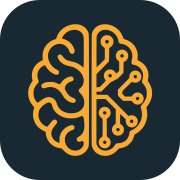
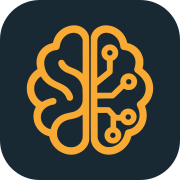
Draw the mark with fewer strokes
The first brain had more gyri and more circuit nodes than 16 pixels can
hold: at favicon size it read as an orange smudge. This one is the same
idea drawn with fewer strokes, so it still says brain at a tab's size.

Both marks live in apps/web/icon-sources/ and the generator picks one, so
going back is a single line in scripts/generate-app-icons.mjs plus
`pnpm icons:generate`. The generator now also writes the mark the product
draws itself, which used to be a second copy pasted into logo.tsx and free
to drift away from the icons; the lockup spaces its rule and wordmark from
the mark's measured width rather than from coordinates that only happened
to suit the old one.

Changed region(s): [[0.1389, 0.1111, 0.8611, 0.8889]]

diff --git a/packages/ui/src/components/logo.tsx b/packages/ui/src/components/logo.tsx
@@ -1,6 +1,7 @@
 import * as React from 'react';
 
 import { cn } from '../lib/utils';
+import { MARK_PATHS, MARK_TRANSFORM, MARK_WIDTH } from './logo-mark.generated';
 
 /**
  * The eXocortex brand marks.
@@ -25,8 +26,14 @@ import { cn } from '../lib/utils';
  * a display face, the product's UI type is Inter, and nothing but the name is
  * ever set in it.
  *
- * Geometry: the mark is 931.7 by 1000 units, the wordmark's cap height is
- * 685, and the rule brackets that cap height rather than the full height of
+ * The mark is not written here. It comes from `logo-mark.generated.ts`, which
+ * `scripts/generate-app-icons.mjs` writes from the same vector source as the
+ * favicon and the launcher tiles, normalised to a 1000-unit height with its ink
+ * starting at 0,0. Keeping one source is what stops the tab icon and the
+ * wordmark from slowly becoming two different drawings of the same brain.
+ *
+ * Geometry: the mark is `MARK_WIDTH` by 1000 units, the wordmark's cap height
+ * is 685, and the rule brackets that cap height rather than the full height of
  * the mark, so the three parts read as one line instead of as an icon with a
  * tall stick beside it. Both components are sized by height.
  *
@@ -38,12 +45,20 @@ const BRAND_AMBER = '#F9AA33';
 const BRAND_LIGHT = '#E7E9EB';
 
 /** The mark centred in a square, for an avatar, a tab or a launcher tile. */
-const MARK_VIEW_BOX = '-34.1 0 1000 1000';
-/** The full lockup, about 8.32:1. */
-const LOCKUP_VIEW_BOX = '0 0 8320.4 1000';
+const MARK_VIEW_BOX = `${(MARK_WIDTH - 1000) / 2} 0 1000 1000`;
 
-const MARK_PATH =
-  'M334.5 1.8c-35 5.6-67.2 21.9-89.7 45.3-14.3 14.9-26.7 36.3-31.4 53.9-2.4 9.4-3.8 10.7-13.1 13.6-28.8 8.8-54.3 27.5-70.6 51.7-8.2 12.1-16.4 31.6-19.3 45.9-2.4 11.2-2.9 32.7-1.2 48.4l1 9.6-11.5 5.7c-36.3 17.6-61.3 49.3-69.1 87.4-2.6 13-1.8 39 1.8 52.8l2.4 9.5-5.9 8.3c-19 26.9-27.6 52.3-27.7 82.6-0.2 37.3 12.4 69.8 38.4 99 3.9 4.4 7.1 9 7.2 10.2 0 1.1-1.4 6.3-3.1 11.5-17.4 54.3 1.9 115 47.3 149.2 8.6 6.4 33.9 20.2 37.3 20.2 3.3 0 4.9 4.4 5.6 15.4 2.3 34.8 22.7 69.4 53.3 89.9 16.6 11.1 38 18.8 56.1 20.2 9.5 0.8 9.9 1 13.9 5.6 23.3 26.6 40.1 38.6 65 46.5 50.4 15.8 105.2-6.3 127-51 9.7-19.9 8.9 22.3 8.9-438.1 0-446.3 0.4-418.4-6.3-435.1-11.2-27.6-35-47.9-65.6-56-10.8-2.9-39.1-4-50.7-2.2z m29.6 42.3c26.9 5.5 46.6 24.4 52 49.8 1.4 7 1.8 25.3 1.6 115.3 0 78.2-0.5 108.2-1.4 111.7l-1.4 4.5-10.2-8.2c-25.3-20.4-51.7-32.6-82.3-37.8-15.6-2.7-22.7-5-33.2-10.4-11.5-5.9-23.7-17-30.6-28-8.1-12.6-17.1-16.4-27.4-11.2-13.1 6.5-12.5 22.9 1.3 41 20 26 44.8 39.8 83.8 46.5 39.6 6.8 76.2 34.4 92.6 70.1 16 34.7 8.9 72.8-17.6 93.6-10.7 8.4-13.9 17-9.8 26.4 1 2.1 5.1 7.1 9.5 11.3 20.1 19.3 30.6 42.8 30.7 69.2 0.1 23.1-6.3 38.5-22.7 54.6-11.4 11.4-22.9 18-39.4 22.5-18.4 5-44 6.1-61.9 2.4-18.9-3.8-39.3-13.2-53-24.4-13.3-10.9-25.1-29.8-30.1-48.6-4.3-15.9-12.1-27.1-24.9-35.6-29.2-19.3-55.9-14.5-98.5 17.6-10.1 7.6-19 13.8-19.9 13.8-3.7 0-17.5-18.5-23.2-31.2-5.9-13.4-7.7-22.5-7.7-40.1 0.1-27.9 7.7-47.7 26.3-67.6 4.5-5 9.3-10.3 10.3-12 3.1-4.4 2.5-13-1.4-22.9-12-30.4-6.7-61.3 14.9-85.2 7-7.7 19.5-16.8 28.5-20.5 8-3.1 5.8-4.8 17.5 13.2 23.1 35.7 71.6 65.6 87.2 54 13.1-9.7 11.2-27.2-3.7-34.2-3.6-1.7-6.8-3.1-7.1-3.1-0.4 0-3.4-1.7-6.9-3.8-23.9-14.3-42.2-37.6-51.5-65.4-4-11.9-4.5-15.1-5.1-28.3-0.5-12.6-0.1-16.5 2.1-25 8.3-33 33.5-58.8 66-67.8 12.8-3.4 29.5-2.9 42.2 1.6 22.1 7.8 42.6 29.1 50.1 52 4.4 13.3 10.6 19 20.8 19 8.8 0 15.9-5.6 18.3-14.4 2.6-9.5-5-32.6-16.2-49.6-16.2-24.1-40.9-41.3-70.5-48.7-4.3-1.1-8.1-2.1-8.3-2.3-0.7-0.5 2.5-7.7 7.5-16.4 6.4-11.3 22.3-27 34.6-34 22.3-13.1 46.7-17.8 68.1-13.4z m-196.2 547.4c2.1 1.3 5.1 4 6.7 6 3.1 3.6 3.8 5.7 7.3 20.4 3.8 16.8 15.1 34.5 31.5 50 19.4 18.2 43.4 30.3 72.7 36.7 16.9 3.7 55.4 3.9 71.7 0.5 11.4-2.4 31.5-8.9 38.9-12.8 5.9-3.1 9.6-2.9 13.9 0.8 4.4 3.7 6.8 11.5 9 29 4.2 32.3 3.3 60.4-2.2 77.8-6.2 19.4-19.5 35.9-36.3 44.6-13.9 7.3-17.7 12.6-16.5 23.3 1.2 9.6 8.6 16 18.8 16.1 3 0 8.3-1.4 13.2-3.6 9.4-4.2 12.6-3.9 17 1.3 8.4 10 3.6 32.3-10.2 47-13.1 14-29.4 21-48.5 21-22.3 0-38.9-6.9-54.7-22.8-17-17.1-24.3-34.5-24.4-58.4 0-16.6 2.9-26.7 11.3-39.7 10.2-15.7 24.3-26.3 42.2-32.2 6.3-2 10.8-4.4 13.4-6.9 6.9-6.7 7.7-17.6 1.8-24.7-7-8.2-15.3-9-32.7-3-36.6 12.6-64 42-74.2 79.9-1.8 6.7-2.3 12.1-2.1 28.6 0.1 23.5 0.8 22.5-11.1 18.1-29.5-11.1-50.3-38.9-50.2-67.1 0.1-21.4 9.3-40.4 31.3-64.6 10.9-12 13.4-17.1 12.2-25-1.9-12.2-16-19.1-27.7-13.5-4.5 2.1-20.7 20.2-35.7 39.8-6.5 8.7-9.4 11.7-11.4 11.6-1.4 0-6.1-1.5-10.4-3.3-19.3-8.2-35.8-24.3-45.1-43.6-8.2-16.9-10-24.4-10-42.2 0-15.9 2.1-26.2 8.2-38.2 9.9-19.5 41-46.1 61.8-52.9 6.1-2 15.3-1.1 20.5 2z M307.8 395.3c-23.5 6.2-45.1 22.3-60.2 45.3-8.7 13.3-8.8 13.3-24.6 5.9-7.1-3.3-18.3-7.5-24.7-9.3-10.7-3-13.4-3.3-32.5-3.3-22.7 0.1-27.5 0.8-46.2 8-11.9 4.5-18.3 10-20.2 17-2.6 9.7 3.8 20.4 13.8 23 4.5 1.2 6.3 1 19.3-3.4 17.1-5.8 29.5-7.5 43.2-6 31.6 3.7 59.8 23.1 79.4 54.7 14 22.8 15.7 25.2 22.2 32.4 17.1 18.4 43.2 31.9 61.7 31.8 14 0 22.2-13.7 15.9-26.1-3-5.8-6.5-8.2-19.3-12.8-23.3-8.3-38.3-23.3-54.8-55-5.5-10.6-5.8-11.7-5.2-17.9 1.9-21 23.7-43 48.1-48.7 7.7-1.8 13.1-5.3 15.8-10.7 4.6-8.7 1.8-18.7-7.1-24.6-5-3.4-12.7-3.6-24.6-0.3z M554.1 2.5c-11.5 2.3-19 4.9-29.4 10.2-22.3 11.4-38 30.7-45.7 56.2-2.1 6.9-2.3 24.3-2.5 422.1-0.4 412.5-0.4 414.9 2 424.4 8.8 34.7 35.4 60.6 72.4 70.3 9.2 2.5 14.4 3.1 26.3 3.2 38.8 0.2 68.4-14.5 99.2-49.4 5.8-6.5 6.2-6.7 13.7-7.5 18.1-1.9 38.5-9.2 53.7-19 11.5-7.6 31.1-27.6 37.3-38.1 6.2-10.7 11.9-24.4 14.3-34.6 1-4.4 2.4-9 3-10.2 0.6-1.2 4.8-3.9 9.1-6.2 19.3-9.7 42.3-30.1 56-49.4 13.8-19.6 25.2-47.7 29.3-72.4 2.7-16.5 1.9-44.6-1.9-60.2-4.3-18-4.5-16.2 3.3-25.8 18.9-23.1 30.3-47.2 34.9-73.4 2.6-14.7 1.9-41.4-1.3-54.7-4.9-20.4-12-36-23.4-52.1-3.4-4.8-6.3-9.5-6.3-10.6 0-1 1.2-7.3 2.5-13.7 3.8-17.7 3.6-40.2-0.5-55.6-9.3-35.4-32.3-62.9-67.1-79.8l-12.4-6.1 0.7-7.3c2.9-27.1 2-41.8-3.5-60.9-3.4-11.9-11.7-28.9-18.9-39-6.5-9.2-21.6-23.7-31.4-30.2-10.3-7-27.3-14.9-38.8-18-5.2-1.4-10.5-3.4-11.5-4.4-1.1-1-3.1-5.6-4.5-10.2-17.6-58.3-75.5-100-137.9-99.4-6.9 0-16.2 0.8-20.7 1.8z m39.7 40.9c44.1 7 78.9 42.7 85 87.1 0.6 4.3 1.9 7 4.9 10.4 4.6 5.1 8.3 6.7 19 7.6 39 3.6 74.1 38.8 79.2 79.6 1.7 13.6 0.1 29.2-4.4 44.6-3.6 12.1-3.7 16.6-0.6 22.6 3.1 6.2 8.4 9.3 19.1 10.9 48.3 7.4 79.5 60.4 62.9 106.4-4.2 11.3-5.5 18.9-4.3 23.8 0.5 1.7 3.9 6.3 7.6 10.3 8.9 9.6 13.6 16.4 19.3 28.5 7.5 15.8 8.9 22.6 8.9 43.7 0 21.6-2.1 31.6-10.7 49.7-6.5 13.7-11.5 20.8-22.7 32.3-8.6 8.8-12.4 15.1-12.4 20.6 0 1.7 1.4 7.1 3.1 12.2 15.8 48.6 4.8 98.4-30.1 135-11.2 11.7-20.6 18.5-33.1 24.2-15.9 7.3-17.4 8.1-20.4 12-2.3 3-3.2 6.5-4.5 16.2-3.9 30-20.3 52.7-47.2 65-12.8 5.9-19.1 7.4-33.6 7.9-17.4 0.5-20.3 2.1-27.9 15.1-20.9 35.5-67.3 50.8-102 33.5-11.1-5.5-23.5-17-28.5-26.3-7.3-13.8-7.8-17.5-7.7-44.9 0-13.7 0.1-88.8 0.1-166.8l0.2-141.7 34.1 0 34 0 7.1 6.8c4 3.8 21.3 21.2 38.5 38.5l31.3 31.6 0 53.6c0 58.6 0.4 55.2-7 59-1.8 1-5.7 4.4-8.9 7.7-21.6 23.3-15.2 59.4 12.9 73.4 6.4 3.1 8.3 3.4 19 3.4 10.5 0 12.7-0.4 18.8-3.2 9.5-4.5 18.8-13.7 23-22.7 3.1-6.5 3.4-8.7 3.4-19.3 0-11.5-0.1-12.1-4.6-20.5-4.6-8.8-10.6-14.9-18.8-19.5-2.4-1.3-4.6-3.6-5-5-1.3-5-0.8-72 0.6-72.1 0.7 0 10.5 9 21.5 20.1l20.3 20-0.6 7.6c-1.3 16.8 3.4 30.2 14.2 40.4 20.6 19.5 52.1 16.4 68.1-6.8 8-11.4 10.3-27.5 6.1-40-8.7-25.1-33.5-37.4-58.4-29l-8.9 3.1-79.1-79.7-79-79.6-41-0.3-41-0.2-0.4-11.7-0.4-11.5 18.2 0 18.2 0.1 35.7-36.2c32-32.5 36.3-36.4 41-37.6 7.5-2 13.9-5.5 20.6-10.9 3.8-3.2 7.8-5.2 12.1-6.2 3.6-1 8.8-3.3 12.1-5.8 4.5-3.3 43.6-41.6 44.6-43.8 0.1-0.2 0.6-18.7 0.9-40.9l0.6-40.4 7.8-4c10.2-5.5 18.3-13.7 22.9-23.7 3.4-7.3 3.8-9 3.8-19.3 0-10.2-0.4-12-3.8-19.3-9-19-29.8-30.6-49.2-27.1-22.1 3.8-38.3 21.4-40 43.2-1.2 15.8 4.2 27.9 17.9 40.8l7.5 7-0.3 34.4-0.1 34.3-10.1 9.9c-5.6 5.5-10.7 10-11.4 10-0.6 0-2.7-2.9-4.8-6.3-4.3-7.6-14.4-17.4-21.8-20.8-27.9-13.6-60.7 3.7-66.5 34.8-2.4 12.7 1 25.4 9.5 36.9 2.7 3.6 4.9 7.4 4.9 8.4 0 1.1-10.5 12.5-23.2 25.3l-23 23.3-12.1 0.4-11.8 0.5 0-49 0-49.1 10.4-10.8c5.7-5.9 26.6-27.2 46.5-47.2 19.9-20.1 36.5-37.2 37.1-38.1 0.6-1 1.1-23.2 1.1-49.4 0-26.3 0.4-48.5 0.7-49.6 0.4-1.1 4.4-4.4 9-7.4 22.1-14.7 29.4-41.6 17.5-64.9-3.9-7.7-14.3-17.2-23.3-21.5-7.4-3.4-9-3.8-20-3.8-10.9 0-12.6 0.4-19.8 3.8-10.5 4.9-19 13.4-23.9 23.9-3.6 7.5-3.8 8.8-3.8 21.1 0 11.9 0.2 13.7 3.3 19.8 4.2 8.6 12.1 17.4 20.1 22.5 3.4 2.1 6.7 4.5 7.1 5.2 0.5 0.6 1 19.6 1 42.2 0 37.2-0.2 41.3-2.2 44-3.9 5.7-58.5 58.7-59.3 57.8-1.7-1.5-1.9-222.7-0.4-230.2 4-18.8 17-35.1 35.5-44.4 11.2-5.7 28.8-7.8 44.2-5.5z m7.8 78.9c3.4 3.4 4 4.9 4.1 9.7 0 4.8-0.6 6.2-4.1 9.6-9.4 9.4-24.3 2-22.9-11.4 0.8-7.4 5.8-11.9 13.4-11.9 4.6 0 6.1 0.6 9.5 4z m111.8 106.9c4.8 4.4 5.8 10.1 2.8 15.7-3.2 6.1-13.2 8.6-18.7 4.6-3.1-2.1-6.2-7.7-6.2-11.2 0-3.9 3.3-9.3 6.9-11.1 5.5-3.1 10.5-2.4 15.2 2z m-88.3 149.4c8.6 9.6-1.3 24.7-13.9 21.3-11.1-3.1-12-20.3-1.5-25 4.8-2 11.8-0.4 15.4 3.7z m156.9 339.3c7.4 3.1 10.3 9.7 7.5 16.6-2.1 5.2-6.2 7.8-12 7.9-13.4-0.1-17.4-19-5-24.4 4.8-2.1 4.9-2.1 9.5-0.1z m-100.6 63.7c8.4 5.1 7.5 18.3-1.5 22.1-6.1 2.5-11.4 1.3-15.4-3.3-2.7-3.2-3.1-4.6-2.6-8.9 1.2-10.5 10.7-15.3 19.5-9.9z M796.4 348.9c-12.5 2.5-27 13.8-32.3 25.1-3.2 6.8-5.5 19.3-4.5 24.5 0.4 2.1 0.1 5.1-0.7 6.5-0.7 1.5-20.1 21.6-43.1 44.7l-41.8 41.9-0.3 19.2c-0.2 10.6-0.1 21.2 0.3 23.4 0.6 3 3.8 7.1 12.9 16.4 6.7 6.9 15.5 15.3 19.6 18.9l7.5 6.5 32 0 31.9 0 4.4 6.5c5.2 8.1 12 13.9 20.7 18.2 5.8 2.9 7.8 3.2 18.4 3.2 11.1 0 12.5-0.2 19.8-3.8 25.6-12.6 33.9-44.2 17.8-67.3-12.5-17.8-36.1-24.6-55.1-15.9-9.7 4.5-14.4 8.4-20.5 17.5-3 4.4-6.2 8.4-7.2 8.8-1.1 0.4-12.4 0.7-25.1 0.7l-23.3 0-10.1-10-10.3-10 0.3-10.5 0.2-10.5 34.7-34.8c19.1-19.1 35.4-34.8 36.2-34.8 0.7 0 4.5 1.4 8.3 3.2 5.8 2.7 8.7 3.2 17.1 3.3 11.4 0 17.8-1.9 26.5-8 22.8-16.3 26.5-47.7 8-67.9-11.7-12.6-26.9-18.1-42.3-15z m17.7 36.9c7.1 8 2.1 21.4-8.1 21.4-8.2 0-13.6-4.9-13.7-12.3 0-5.8 1.5-8.7 6.3-11.6 5.2-3.2 11.1-2.3 15.5 2.5z m15.4 162.8c4.5 3.6 6.2 9.5 4 14.6-3.7 8.8-14.4 11.2-21.1 4.6-2.7-2.9-3.4-4.5-3.4-8.8 0-4.4 0.7-6.1 3.6-9.1 4.5-4.5 12-5.1 16.9-1.3z M561.6 622.8c-13.7 5.2-22.1 12.6-27.7 24.5-3.3 7-3.7 8.8-3.7 19 0 9.7 0.5 12.2 3.2 18.1 3.4 7.5 12.6 18 18 20.7 1.8 1 4.4 2.9 5.7 4.1 2.1 2.1 2.3 4.4 2.2 66.5 0 43.2-0.5 65-1.3 66.9-0.7 1.5-3.1 3.8-5.3 5-6.7 3.6-14.4 12.1-18.6 20.6-3.6 7.3-3.9 8.8-3.9 19.2 0 9.7 0.5 12.2 3.2 18.1 4.4 9.5 12.7 18.1 22.2 22.7 7.1 3.4 8.8 3.8 19.2 3.8 9.7 0 12.2-0.5 18.2-3.2 9.5-4.5 18.8-13.7 22.9-22.7 3.1-6.4 3.4-8.7 3.5-18.7 0-9.7-0.5-12.2-3.1-17.9-3.8-8-10.1-15.3-17.6-20.4-3-2-6.2-4.5-6.9-5.4-1.2-1.4-1.5-16.6-1.6-67.1l0-65.2 2.8-2.4c1.4-1.3 5.5-4.6 9-7.4 27.3-21.2 22.5-61.9-9-76.7-8.2-3.8-24.1-4.9-31.4-2.1z m18.4 31.6c3.3 1.2 7.8 7.6 7.9 11.1 0 6.7-6.9 13.9-13.1 13.9-6.3 0-13.1-6.8-13.1-13.1 0-8.9 9.7-15.2 18.3-11.9z m0.7 221.7c3.6 1.9 7.1 7.3 7.2 10.7 0 7.3-8.6 14.6-15.4 13.1-4-0.8-9.2-6.1-10.2-10.3-1.1-4.4 2.3-11.1 6.9-13.4 4.8-2.4 7.3-2.4 11.5-0.1z';
+/* The lockup is spaced from the mark rather than from fixed coordinates, so a
+   new mark of a different width does not push the wordmark out of true. The gap
+   is used twice, once on each side of the rule, and the wordmark path was drawn
+   starting at this x; it is slid by the difference. */
+const LOCKUP_GAP = 287.8;
+const RULE_X = MARK_WIDTH + LOCKUP_GAP;
+const RULE_WIDTH = 58.2;
+const WORDMARK_X = RULE_X + RULE_WIDTH + LOCKUP_GAP;
+const WORDMARK_DRAWN_AT = 1565.5;
+const WORDMARK_SHIFT = WORDMARK_X - WORDMARK_DRAWN_AT;
+/** The full lockup, about 8.3:1. */
+const LOCKUP_VIEW_BOX = `0 0 ${8320.4 + WORDMARK_SHIFT} 1000`;
 
 const WORDMARK_PATH =
   'M2258.3 631.1C2306.2 631.1 2314.7 619.8 2314.7 583.2L2314.7 475.1C2314.7 365.1 2236.7 311.5 2048.7 311.5L1831.5 311.5C1654.8 311.5 1565.5 365.1 1565.5 475.1L1565.5 679C1565.5 788.1 1654.8 842.6 1831.5 842.6L1943.4 842.6C1971.6 842.6 1977.2 825.7 1977.2 794.7 1977.2 763.6 1971.6 747.7 1943.4 747.7L1835.3 747.7C1730 747.7 1684.9 716.6 1684.9 679L1684.9 631.1M1684.9 475.1C1684.9 436.5 1730 406.4 1835.3 406.4L2044.9 406.4C2150.2 406.4 2195.3 431.8 2195.3 475.1L2195.3 538 1684.9 538M2509.3 178C2494.2 164.9 2479.2 161.1 2450.1 161.1 2414.3 161.1 2389 166.7 2389 199.6 2389 216.6 2395.5 225 2420 245.7L2718.9 497.6 2409.6 761.8C2386.1 782.4 2379.6 790.9 2379.6 807.8 2379.6 842.6 2410.6 846.4 2441.6 846.4 2468.9 846.4 2485.8 843.5 2502.7 829.4L2805.4 570 3115.6 829.4C3132.5 843.5 3146.6 846.4 3173.9 846.4 3209.6 846.4 3235.9 841.7 3235.9 807.8 3235.9 790.9 3229.3 782.4 3204.9 761.8L2898.4 505.1 3202.1 245.7C3225.6 225 3232.1 216.6 3232.1 199.6 3232.1 164.9 3201.1 161.1 3172 161.1 3141.9 161.1 3125 164.9 3109 178L2812 432.8M3308.3 475.1L3308.3 679C3308.3 788.1 3397.6 842.6 3574.3 842.6L3779.2 842.6C3955.9 842.6 4045.2 788.1 4045.2 679L4045.2 475.1C4045.2 365.1 3955.9 311.5 3779.2 311.5L3574.3 311.5C3397.6 311.5 3308.3 365.1 3308.3 475.1M3925.9 679C3925.9 716.6 3880.7 747.7 3775.5 747.7L3578.1 747.7C3472.8 747.7 3427.7 716.6 3427.7 679L3427.7 475.1C3427.7 436.5 3472.8 406.4 3578.1 406.4L3775.5 406.4C3880.7 406.4 3925.9 436.5 3925.9 475.1M4874.3 842.6C4902.5 842.6 4908.2 825.7 4908.2 794.7 4908.2 763.6 4902.5 747.7 4874.3 747.7L4405.3 747.7C4300 747.7 4254.9 716.6 4254.9 679L4254.9 475.1C4254.9 436.5 4300 406.4 4405.3 406.4L4871.5 406.4C4899.7 406.4 4906.3 390.5 4906.3 359.4 4906.3 327.5 4899.7 311.5 4871.5 311.5L4401.5 311.5C4224.8 311.5 4135.5 365.1 4135.5 475.1L4135.5 679C4135.5 788.1 4224.8 842.6 4401.5 842.6M4993.7 475.1L4993.7 679C4993.7 788.1 5083 842.6 5259.7 842.6L5464.6 842.6C5641.4 842.6 5730.7 788.1 5730.7 679L5730.7 475.1C5730.7 365.1 5641.4 311.5 5464.6 311.5L5259.7 311.5C5083 311.5 4993.7 365.1 4993.7 475.1M5611.3 679C5611.3 716.6 5566.2 747.7 5460.9 747.7L5263.5 747.7C5158.2 747.7 5113.1 716.6 5113.1 679L5113.1 475.1C5113.1 436.5 5158.2 406.4 5263.5 406.4L5460.9 406.4C5566.2 406.4 5611.3 436.5 5611.3 475.1M6069.1 311.5C5912.1 311.5 5825.6 366 5825.6 474.1L5825.6 802.2C5825.6 837.9 5845.3 846.4 5884.8 846.4 5925.2 846.4 5945 837.9 5945 802.2L5945 474.1C5945 430.9 5976 406.4 6069.1 406.4L6142.4 406.4C6170.6 406.4 6176.2 390.5 6176.2 359.4 6176.2 328.4 6170.6 311.5 6142.4 311.5M6260.8 311.5C6232.6 311.5 6227 328.4 6227 359.4 6227 390.5 6232.6 406.4 6260.8 406.4L6314.4 406.4 6314.4 802.2C6314.4 837.9 6334.1 846.4 6373.6 846.4 6414 846.4 6433.8 837.9 6433.8 802.2L6433.8 406.4 6632.1 406.4C6660.3 406.4 6666 390.5 6666 359.4 6666 328.4 6660.3 311.5 6632.1 311.5L6433.8 311.5 6433.8 201.5C6433.8 165.8 6414 157.3 6373.6 157.3 6334.1 157.3 6314.4 165.8 6314.4 201.5L6314.4 311.5M7424.5 631.1C7472.5 631.1 7480.9 619.8 7480.9 583.2L7480.9 475.1C7480.9 365.1 7402.9 311.5 7214.9 311.5L6997.8 311.5C6821.1 311.5 6731.8 365.1 6731.8 475.1L6731.8 679C6731.8 788.1 6821.1 842.6 6997.8 842.6L7109.6 842.6C7137.8 842.6 7143.5 825.7 7143.5 794.7 7143.5 763.6 7137.8 747.7 7109.6 747.7L7001.5 747.7C6896.3 747.7 6851.1 716.6 6851.1 679L6851.1 631.1M6851.1 475.1C6851.1 436.5 6896.3 406.4 7001.5 406.4L7211.2 406.4C7316.4 406.4 7361.6 431.8 7361.6 475.1L7361.6 538 6851.1 538M7683 320.9C7669.9 310.6 7655.8 307.7 7621.9 307.7 7577.8 307.7 7556.1 312.4 7556.1 337.8 7556.1 349.1 7560.8 357.6 7582.5 374.5L7841.9 571.9 7574 779.6C7552.4 796.5 7547.7 803.1 7547.7 815.3 7547.7 843.5 7574 846.4 7615.4 846.4 7648.3 846.4 7662.4 844.5 7677.4 833.2L7926.5 636.7 8180.3 833.2C8194.4 843.5 8208.5 846.4 8244.2 846.4 8285.6 846.4 8308.1 842.6 8308.1 816.3 8308.1 803.1 8302.5 796.5 8280.9 779.6L8015.8 578.5 8278.1 374.5C8299.7 357.6 8305.3 351 8305.3 338.8 8305.3 311.5 8278.1 307.7 8239.5 307.7 8200 307.7 8187.8 310.6 8174.7 320.9L7931.2 513.6';
@@ -58,7 +73,11 @@ export function ExocortexLogo({ className, ...props }: React.ComponentPropsWitho
       className={cn('size-5', className)}
       {...props}
     >
-      <path fill={BRAND_AMBER} d={MARK_PATH} />
+      <g fill={BRAND_AMBER} transform={MARK_TRANSFORM}>
+        {MARK_PATHS.map((d) => (
+          <path key={d.slice(0, 32)} d={d} />
+        ))}
+      </g>
     </svg>
   );
 }
@@ -73,9 +92,20 @@ export function ExocortexWordmark({ className, ...props }: React.ComponentPropsW
       className={cn('h-8 w-auto', className)}
       {...props}
     >
-      <path fill={BRAND_AMBER} d={MARK_PATH} />
-      <rect x={1219.5} y={140.3} width={58.2} height={719.5} rx={29.1} fill={BRAND_LIGHT} />
-      <path fill={BRAND_AMBER} d={WORDMARK_PATH} />
+      <g fill={BRAND_AMBER} transform={MARK_TRANSFORM}>
+        {MARK_PATHS.map((d) => (
+          <path key={d.slice(0, 32)} d={d} />
+        ))}
+      </g>
+      <rect
+        x={RULE_X}
+        y={140.3}
+        width={RULE_WIDTH}
+        height={719.5}
+        rx={RULE_WIDTH / 2}
+        fill={BRAND_LIGHT}
+      />
+      <path fill={BRAND_AMBER} d={WORDMARK_PATH} transform={`translate(${WORDMARK_SHIFT} 0)`} />
     </svg>
   );
 }

diff --git a/packages/ui/src/components/logo-mark.generated.ts b/packages/ui/src/components/logo-mark.generated.ts
@@ -1,0 +1,14 @@
+/* Generated by scripts/generate-app-icons.mjs from
+   apps/web/icon-sources/brain-v2.svg. Do not edit: run `pnpm icons:generate`. */
+
+/** The mark's paths, in the coordinate system the source was drawn in. */
+export const MARK_PATHS = [
+  'M5195 10309 c-399 -28 -797 -257 -1023 -587 -97 -142 -161 -289 -209 -481 -8 -32 -10 -34 -103 -57 -225 -57 -400 -155 -560 -314 -321 -319 -439 -753 -326 -1200 l22 -91 -85 -57 c-167 -111 -340 -311 -438 -505 -48 -95 -108 -283 -129 -397 -22 -128 -23 -364 0 -490 36 -207 111 -395 222 -563 68 -101 210 -259 283 -312 22 -16 41 -34 41 -40 0 -5 -18 -46 -39 -90 -156 -319 -145 -734 30 -1092 108 -219 297 -415 521 -537 77 -42 276 -116 311 -116 11 0 20 -22 32 -78 70 -320 293 -640 578 -830 460 -307 992 -331 1417 -63 236 148 403 369 466 618 l24 96 0 3187 c0 3509 4 3272 -61 3441 -42 110 -114 212 -212 305 -203 191 -455 274 -762 253z m250 -493 c162 -51 291 -180 348 -345 l22 -66 3 -1062 c2 -725 -1 -1063 -8 -1063 -5 0 -10 4 -10 9 0 12 -124 111 -206 164 -98 63 -229 127 -374 182 -163 61 -271 115 -351 175 -77 57 -117 106 -174 208 -52 96 -100 133 -179 140 -63 5 -115 -10 -157 -45 -84 -71 -92 -189 -21 -334 104 -213 339 -390 654 -495 104 -34 267 -112 354 -169 191 -124 342 -321 412 -535 52 -157 54 -184 59 -590 5 -456 -1 -511 -83 -678 -41 -84 -59 -109 -143 -192 -153 -152 -287 -214 -571 -265 -196 -36 -287 -59 -405 -106 -376 -146 -642 -429 -762 -808 l-36 -113 -36 5 c-104 14 -247 95 -350 198 -191 191 -270 463 -205 713 82 316 358 544 739 611 106 18 152 45 190 109 35 60 37 147 4 206 -26 45 -79 86 -133 101 -106 29 -464 -78 -656 -197 -85 -52 -91 -52 -177 6 -310 207 -467 611 -383 984 35 156 140 338 257 446 66 61 138 110 145 100 2 -3 26 -39 52 -80 110 -170 248 -306 435 -432 117 -78 188 -115 437 -228 274 -124 373 -188 500 -323 84 -88 140 -180 168 -275 22 -75 51 -118 99 -146 86 -50 172 -43 246 20 84 72 92 178 26 343 -74 181 -219 365 -395 497 -89 67 -287 173 -455 244 -55 23 -138 62 -185 85 -419 210 -671 572 -720 1037 -20 181 10 341 93 503 32 62 63 102 137 176 81 82 109 102 190 142 100 50 226 87 292 87 68 0 126 21 172 61 55 49 76 93 87 188 22 179 101 369 212 506 213 265 562 389 842 301z m375 -5799 c0 -687 -1 -728 -20 -801 -56 -219 -210 -391 -430 -479 -87 -34 -164 -47 -284 -47 -391 0 -746 275 -847 655 -31 114 -31 288 -1 408 39 155 142 331 255 433 156 141 319 210 636 269 278 52 464 123 611 234 36 27 68 50 73 50 4 1 7 -325 7 -722z',
+  'M7150 10309 c-211 -24 -413 -114 -562 -251 -104 -96 -188 -230 -239 -383 l-24 -70 -3 -3195 c-2 -2273 0 -3220 8 -3280 37 -284 204 -539 470 -714 194 -128 403 -189 650 -190 223 0 416 48 626 154 157 80 262 157 395 289 194 194 322 416 388 676 10 39 13 41 83 64 173 55 352 166 488 301 328 325 461 804 360 1299 -11 55 -33 136 -48 180 l-29 80 84 83 c109 107 198 225 262 347 189 362 218 800 79 1181 -106 292 -299 535 -576 726 -2 1 9 55 24 121 24 102 27 140 28 278 0 143 -3 172 -28 270 -50 195 -122 347 -234 487 -179 224 -431 378 -723 442 -22 5 -28 14 -39 63 -97 438 -440 816 -883 972 -172 61 -395 89 -557 70z m245 -469 c176 -25 338 -105 474 -234 165 -158 260 -344 296 -581 16 -106 24 -131 59 -173 47 -55 87 -72 204 -88 166 -21 277 -66 399 -158 273 -208 362 -563 237 -939 -33 -100 -31 -172 9 -240 21 -35 52 -63 133 -118 253 -172 442 -413 513 -654 69 -236 49 -490 -55 -698 -76 -150 -159 -249 -301 -359 -121 -94 -155 -141 -161 -229 -4 -53 0 -67 51 -176 89 -191 119 -316 119 -503 1 -262 -86 -476 -266 -656 -129 -129 -243 -189 -420 -220 -131 -23 -194 -79 -222 -200 -82 -358 -244 -604 -506 -767 -157 -99 -323 -147 -500 -147 -130 0 -208 19 -327 76 -78 38 -109 60 -176 128 -89 90 -137 171 -177 296 l-23 75 0 780 0 780 296 3 296 2 106 -115 107 -115 0 -328 -1 -327 -82 -39 c-187 -89 -297 -267 -297 -480 1 -148 54 -270 163 -373 71 -67 129 -99 222 -123 195 -50 378 0 516 140 200 203 200 525 -1 731 -30 31 -81 71 -112 88 l-58 33 0 211 0 212 142 -3 143 -3 40 -61 c179 -270 568 -305 800 -73 252 252 188 677 -126 834 -43 22 -104 45 -136 51 -80 17 -214 8 -285 -20 -136 -51 -254 -164 -306 -292 l-27 -68 -106 0 -106 0 -199 222 c-144 160 -210 226 -239 239 -36 17 -74 19 -402 19 l-363 0 0 264 0 263 71 7 c39 3 262 6 494 6 324 -1 430 2 453 12 30 13 145 120 464 436 l167 165 63 -30 c84 -41 143 -54 243 -54 127 0 212 26 311 96 135 97 214 251 214 420 0 155 -50 273 -159 378 -109 105 -213 147 -368 147 -309 0 -541 -253 -519 -566 l6 -92 -282 -276 -283 -276 -442 0 -443 0 0 215 0 214 323 264 c177 144 381 311 452 369 72 58 138 115 148 126 43 47 46 80 47 457 l1 360 59 28 c118 56 221 178 261 309 17 56 21 89 18 182 -4 109 -5 115 -46 198 -70 140 -210 254 -353 287 -65 15 -187 13 -253 -4 -184 -48 -334 -196 -383 -380 -8 -27 -14 -88 -14 -135 1 -191 107 -367 278 -458 l62 -33 0 -303 0 -304 -37 -28 c-21 -15 -154 -122 -295 -236 -141 -114 -259 -208 -262 -208 -3 0 -6 530 -6 1178 0 1285 -2 1229 57 1352 48 100 179 218 283 256 116 41 206 51 325 34z m211 -1105 c47 -28 84 -90 84 -144 0 -40 -32 -103 -66 -130 -108 -85 -274 -7 -274 129 0 135 138 214 256 145z m1184 -1808 c102 -68 99 -223 -5 -287 -42 -26 -119 -29 -162 -6 -43 22 -81 70 -89 112 -21 114 52 204 166 204 43 0 65 -6 90 -23z m-57 -2191 c44 -18 93 -76 101 -120 22 -116 -96 -229 -206 -197 -76 23 -128 88 -128 161 0 124 119 204 233 156z m-957 -1142 c106 -51 132 -188 50 -270 -78 -78 -210 -64 -266 28 -29 47 -27 134 3 179 47 70 141 97 213 63z',
+] as const;
+
+/** Puts those paths on a 1000-unit height with their ink starting at 0,0. */
+export const MARK_TRANSFORM = 'translate(-231.9900 1326.0296) scale(0.123444 -0.123444)';
+
+/** How wide the mark is once transformed. The lockup spaces itself from this. */
+export const MARK_WIDTH = 976.8;
